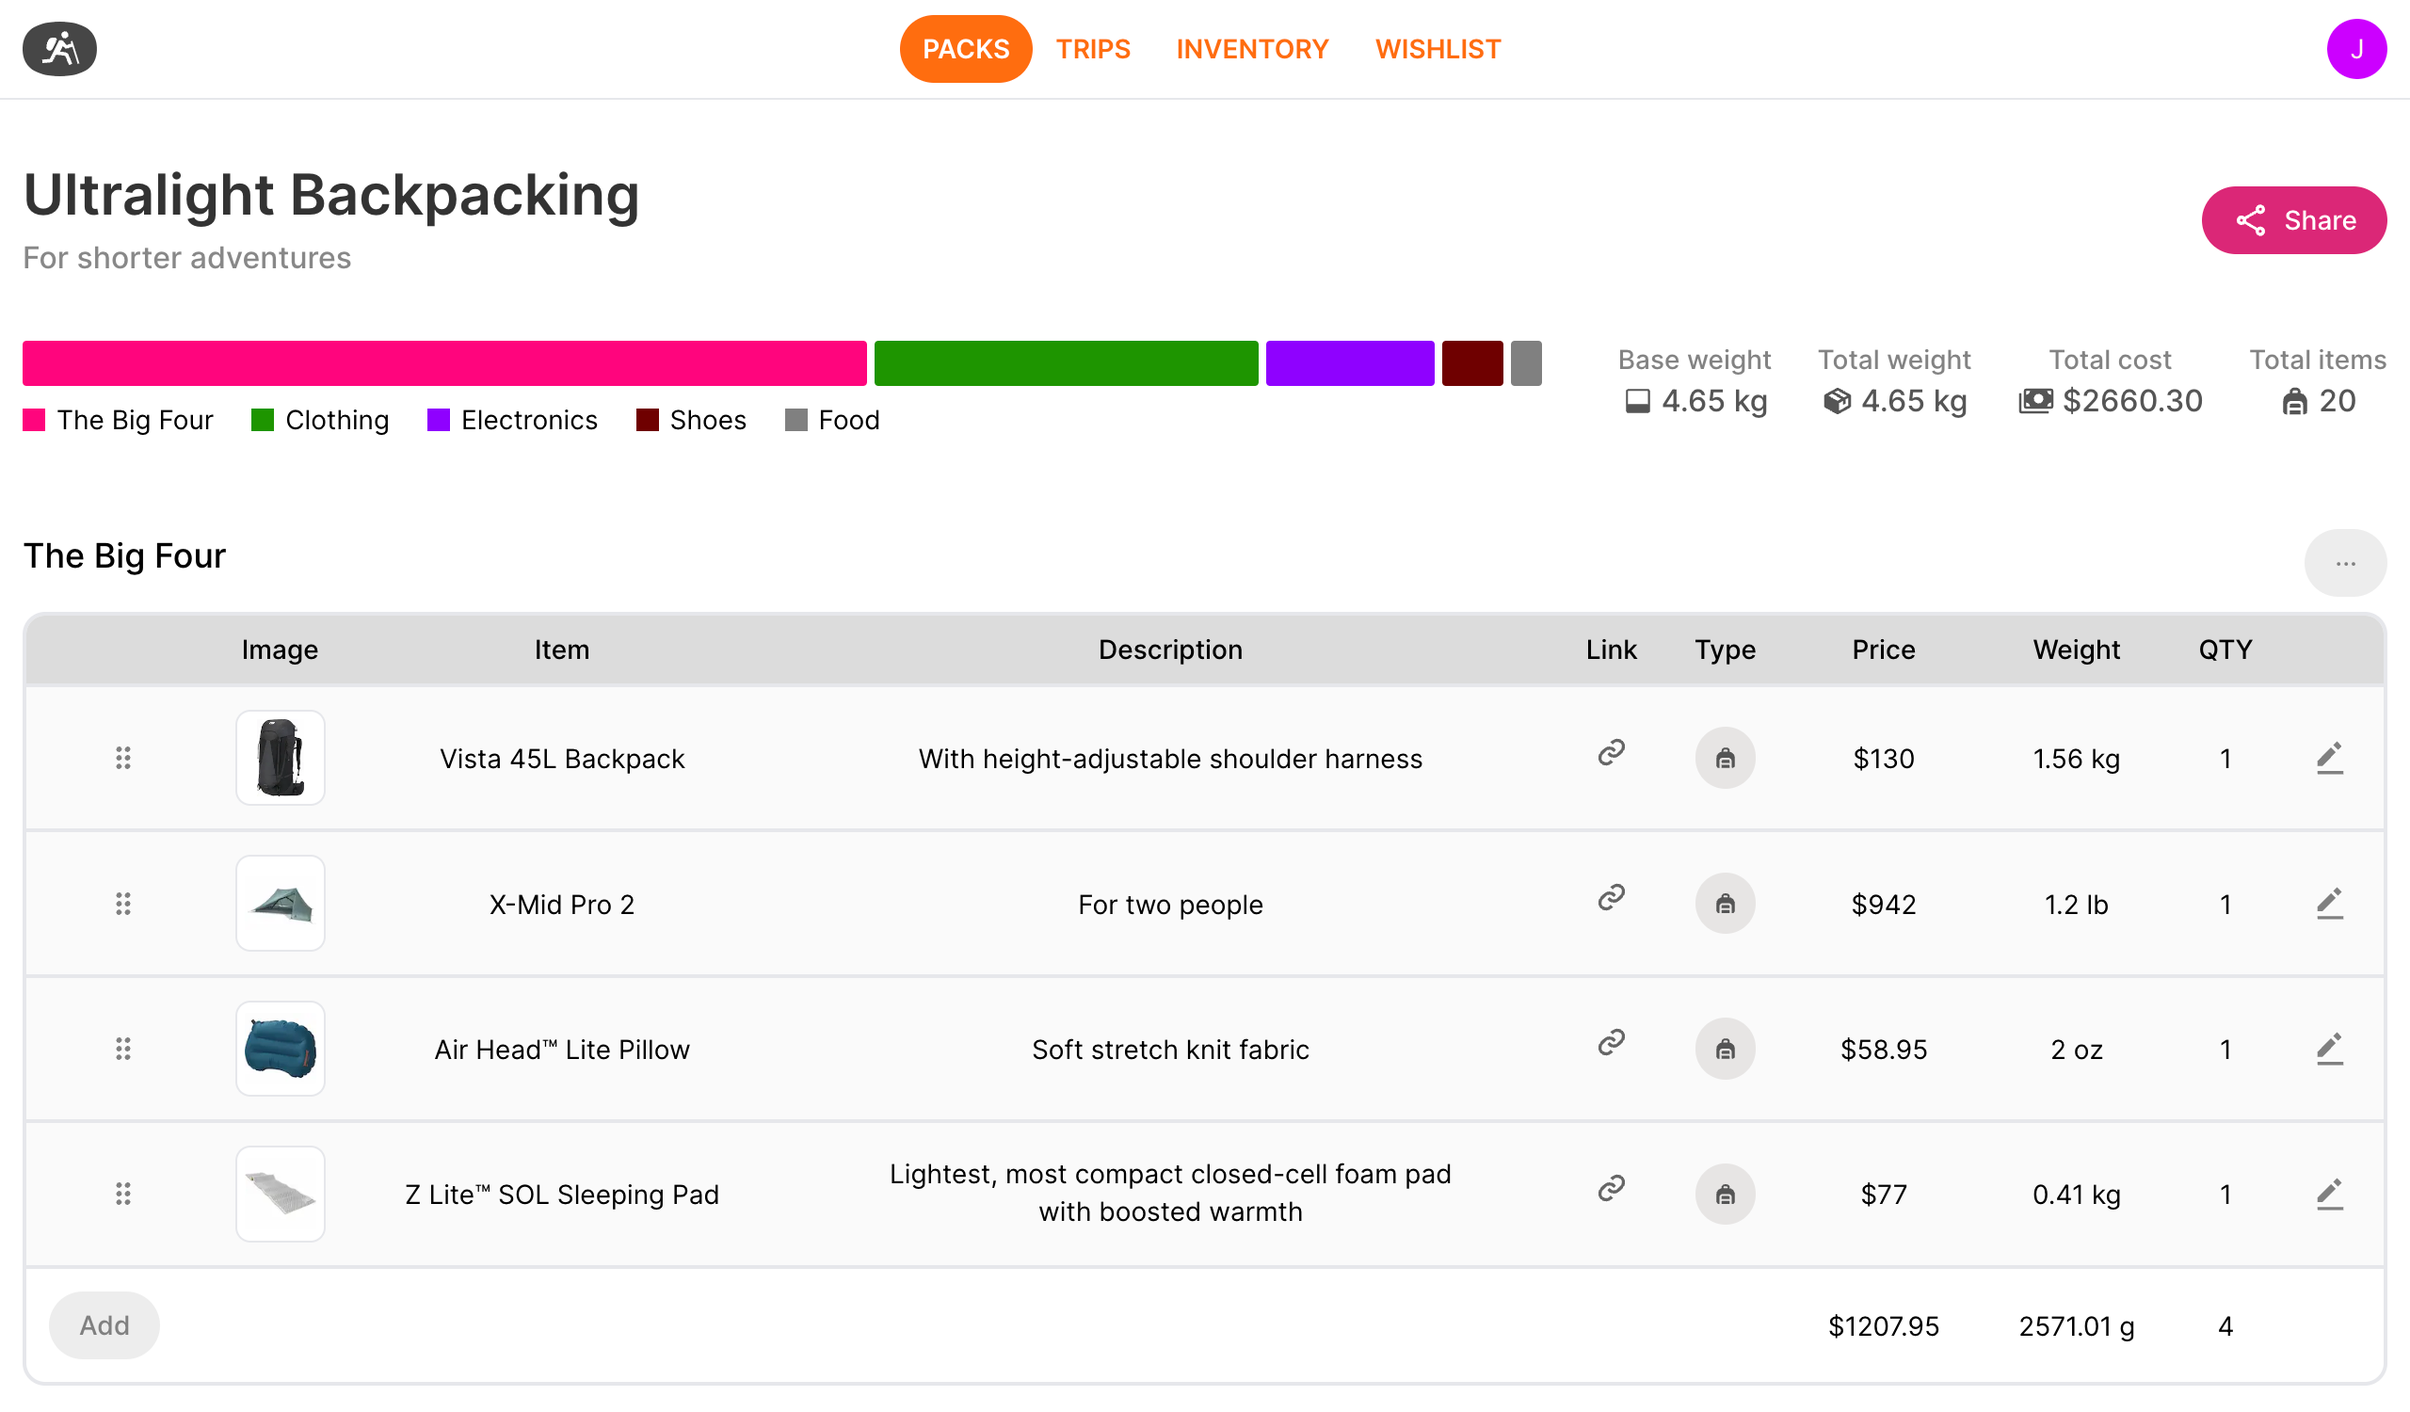
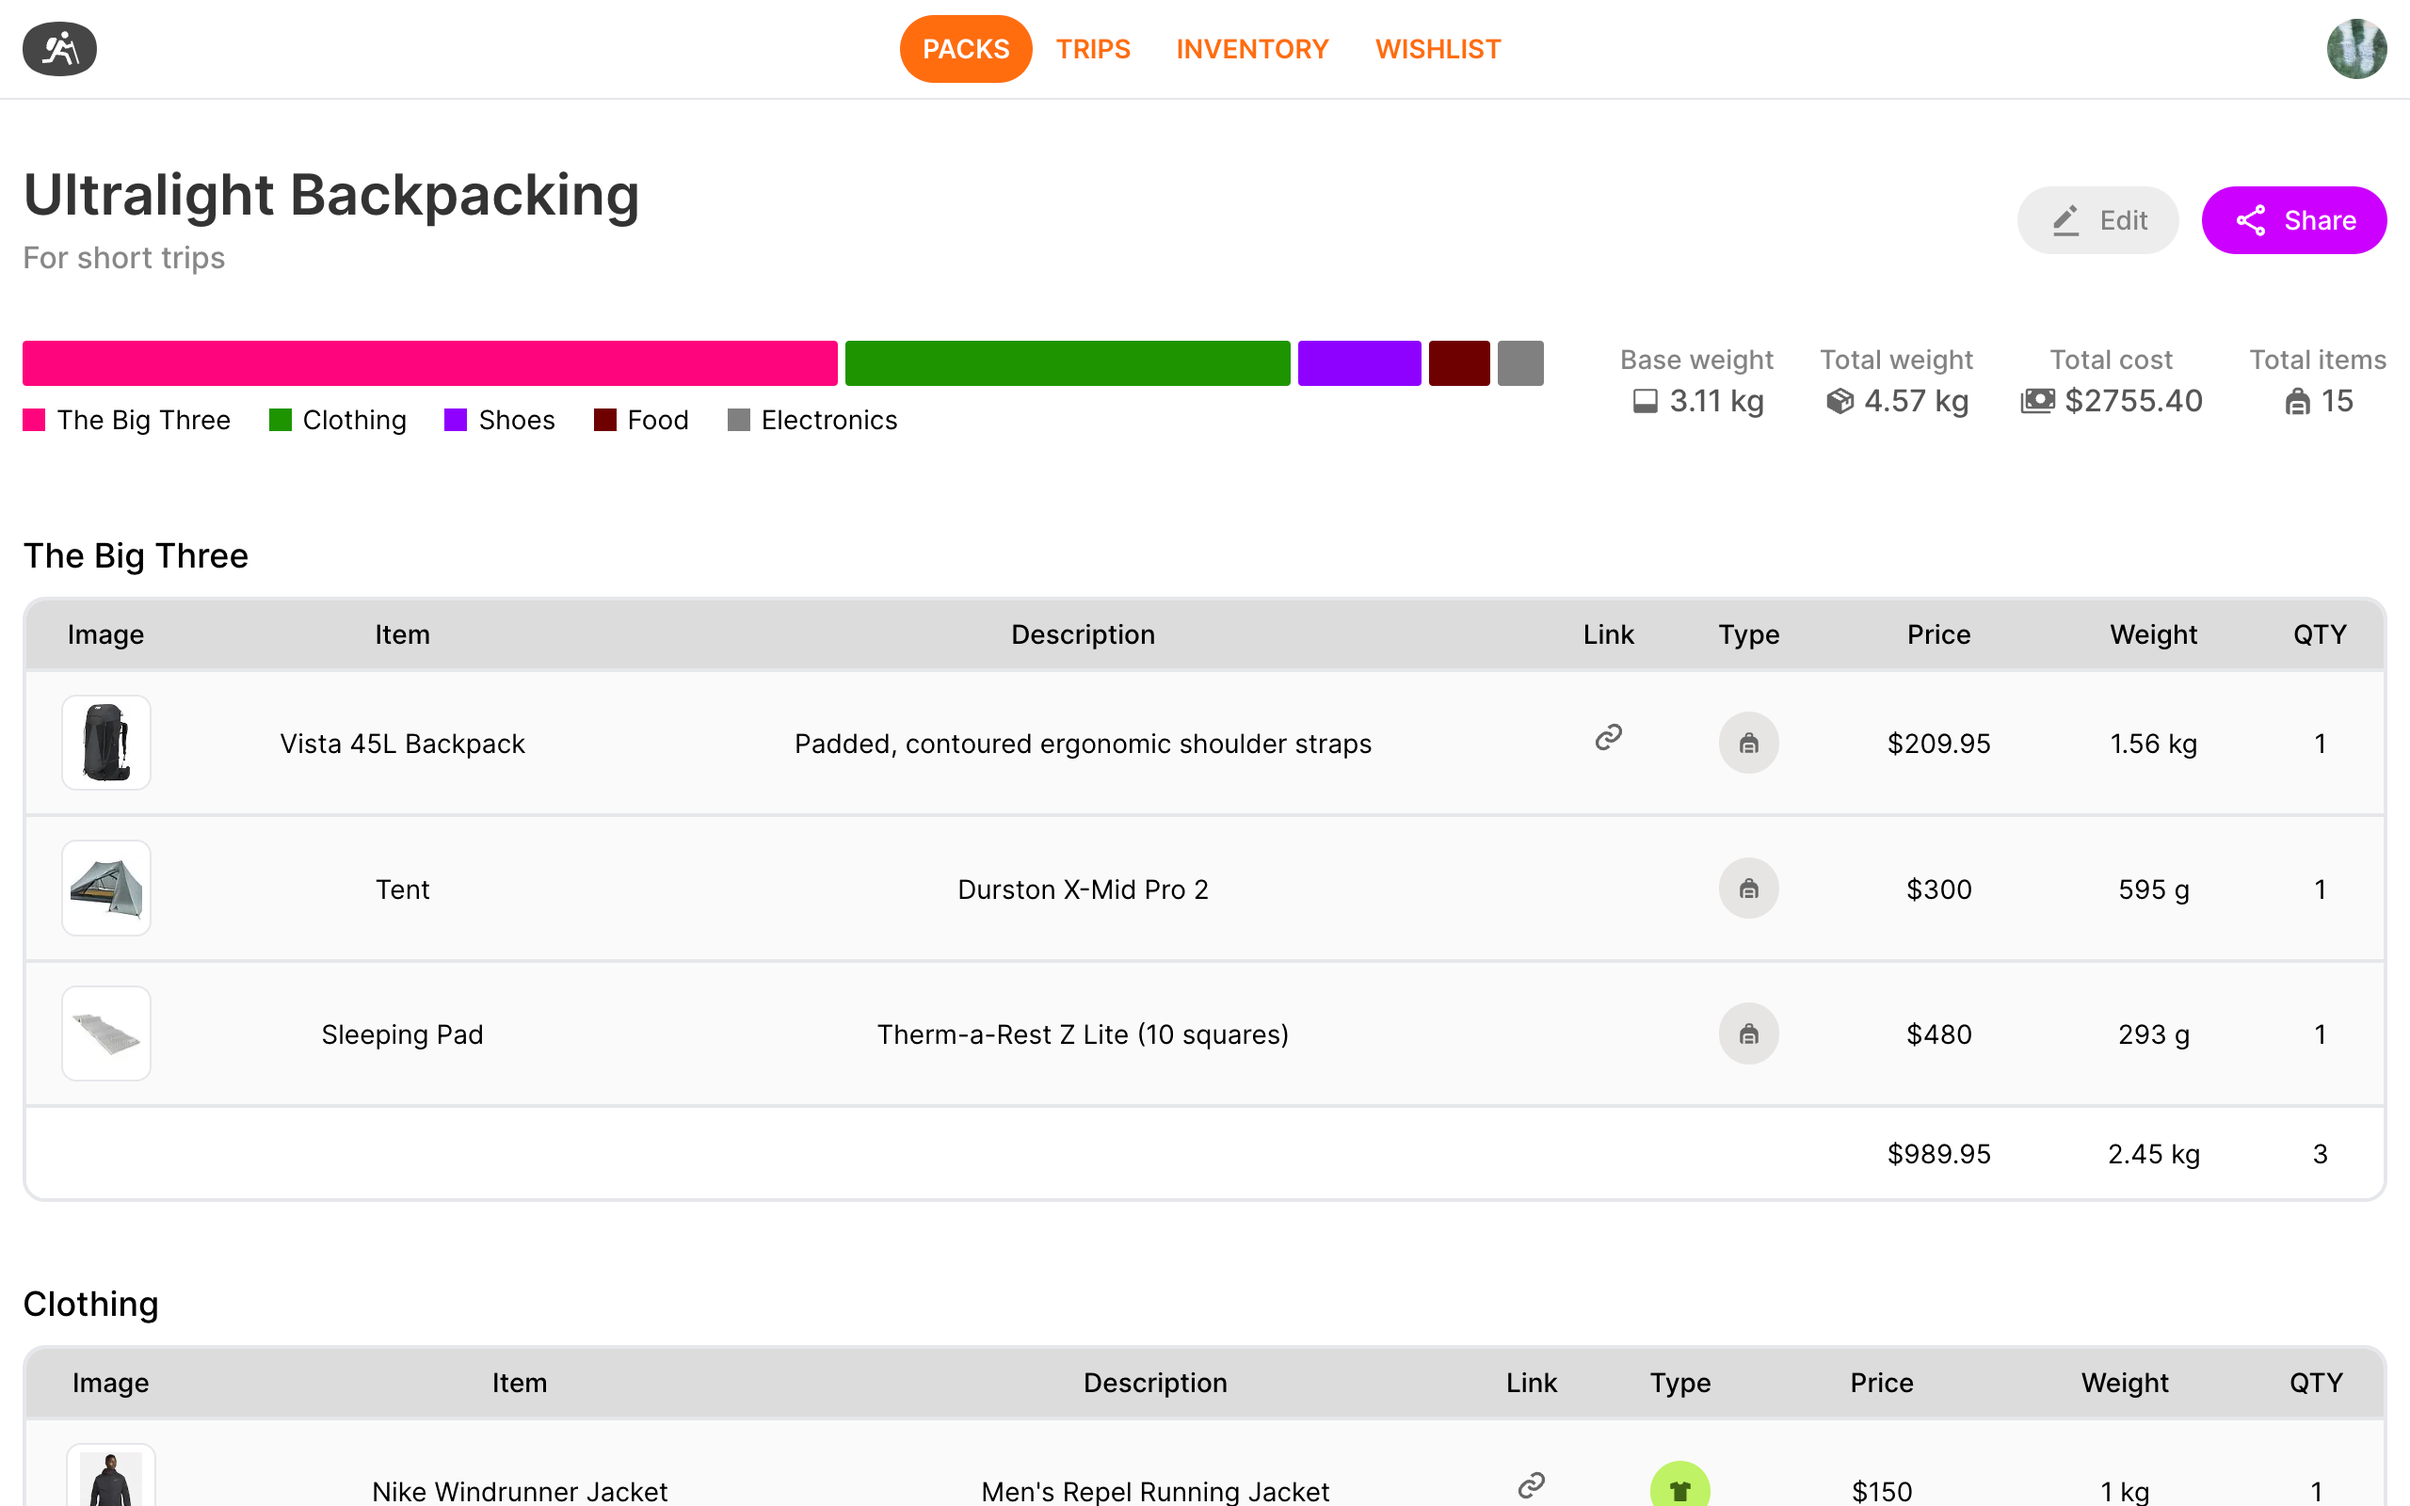
Fix issue where correct currency isn't shown on table

diff --git a/src/app/page.tsx b/src/app/page.tsx
@@ -53,10 +53,15 @@ export default function Home() {
       <section className="flex flex-col flex-wrap gap-5 p-3 mt-10 max-w-7xl animate-delay-1000 animate-fade-up">
         <div className="bg-[#F7F7F7] p-6 rounded-xl flex flex-wrap xl:flex-nowrap gap-3 dark:bg-neutral-800">
           <div className="w-full sm:max-w-sm">
-            <h3 className="font-semibold text-2xl text-header-1 dark:text-neutral-200">Packs</h3>
+            <h3 className="font-semibold text-2xl text-header-1 dark:text-neutral-200">
+              Packs
+            </h3>
             <p className="font-medium  text-md text-header-2 mt-3 dark:text-neutral-400">
               Create your own pack and see how much you should be packing for
-              your next trip.
+              your next trip. 
+            </p>
+            <p className="font-medium  text-md text-header-2 mt-3 dark:text-neutral-400">
+              Share your packs with your others to help them prepare for their next trip.
             </p>
           </div>
           <Image
@@ -68,7 +73,9 @@ export default function Home() {
         </div>
         <div className="flex flex-wrap gap-5">
           <div className="bg-[#F7F7F7] p-6 rounded-xl flex-1 min-w-[49%] dark:bg-neutral-800">
-            <h3 className="font-semibold text-2xl text-header-1 dark:text-neutral-200">Inventory</h3>
+            <h3 className="font-semibold text-2xl text-header-1 dark:text-neutral-200">
+              Inventory
+            </h3>
             <p className="font-medium  text-md text-header-2 mt-3 dark:text-neutral-400">
               Collect all your items in one place so you’ll know what you can
               bring with you.
@@ -81,7 +88,9 @@ export default function Home() {
             />
           </div>
           <div className="bg-[#F7F7F7] p-6 rounded-xl flex-1 min-w-[49%] dark:bg-neutral-800">
-            <h3 className="font-semibold text-2xl text-header-1 dark:text-neutral-200">Trips</h3>
+            <h3 className="font-semibold text-2xl text-header-1 dark:text-neutral-200">
+              Trips
+            </h3>
             <p className="font-medium  text-md text-header-2 mt-3 dark:text-neutral-400">
               Look back on your journeys to find out how much you should be
               packing for your next trip.
@@ -97,7 +106,9 @@ export default function Home() {
         <div className="flex flex-wrap gap-5">
           <div className="bg-[#F7F7F7] p-6 rounded-xl flex-1 min-w-[49%] dark:bg-neutral-800">
             <div>
-              <h3 className="font-semibold text-2xl text-header-1 dark:text-neutral-200">Wishlist</h3>
+              <h3 className="font-semibold text-2xl text-header-1 dark:text-neutral-200">
+                Wishlist
+              </h3>
               <p className="font-medium  text-md text-header-2 mt-3 dark:text-neutral-400">
                 Save your favourite items for later, when you want to go
                 shopping.
@@ -111,7 +122,9 @@ export default function Home() {
             />
           </div>
           <div className="bg-[#F7F7F7] p-6 rounded-xl flex-1 min-w-[49%] dark:bg-neutral-800">
-            <h3 className="font-semibold text-2xl text-header-1 dark:text-neutral-200">Privacy</h3>
+            <h3 className="font-semibold text-2xl text-header-1 dark:text-neutral-200">
+              Privacy
+            </h3>
             <p className="font-medium  text-md text-header-2 mt-3 dark:text-neutral-400">
               Holos is developed by hikers like you for free and will remain
               free. Your data is yours and can be exported at any time.

diff --git a/src/app/share/[id]/page.tsx b/src/app/share/[id]/page.tsx
@@ -14,6 +14,7 @@ import useGetSharedPackData from "@/hooks/useGetSharedPackData";
 import useGetPublicUser from "@/hooks/useGetPublicUser";
 import Avatar from "@/components/dataDisplay/avatar/Avatar";
 import PackSkeleton from "@/components/dataDisplay/packSkeleton/PackSkeleton";
+import { getCurrencySymbol } from "@/utils/currencyUtils";
 
 interface Props {
   params: { id: string };
@@ -31,7 +32,10 @@ export default function SharedPack(props: Props) {
   const [packStats, setPackStats] = useState<PackStats[]>([]);
   const [chartData, setChartData] = useState<ChartData[] | []>([]);
 
-  const { user, avatar, preferredCurrency } = useGetPublicUser({ shareID: params.id });
+  const { user, avatar, preferredCurrency } = useGetPublicUser({
+    shareID: params.id,
+  });
+  const currencySymbol = getCurrencySymbol(preferredCurrency);
 
   const onDeleteGroup = async (id: number) => {
     if (!packData) return;
@@ -98,7 +102,7 @@ export default function SharedPack(props: Props) {
   // get total base weight, total weight, total price, total quantity
   const total: PackSummary = {
     weight_unit: pack?.weight_unit ?? "kg",
-    currency: preferredCurrency,
+    currency: currencySymbol,
     base_weight: packStats.reduce(
       (acc, group: PackStats) =>
         acc +
@@ -169,7 +173,7 @@ export default function SharedPack(props: Props) {
               </h2>
             </div>
             {user && (
-              <div className="flex flex-wrap gap-3 items-center">
+              <div className="flex flex-wrap gap-2 items-center">
                 <div className="flex flex-col flex-wrap">
                   <span className="text-xs font-medium text-gray-500 dark:text-neutral-400">
                     Created by
@@ -198,7 +202,7 @@ export default function SharedPack(props: Props) {
                   onUpdateGroup={setPackData}
                   onDeleteGroup={() => onDeleteGroup(group.id)}
                   setPackStats={setPackStats}
-                  currency={preferredCurrency}
+                  currency={currencySymbol}
                   packWeightUnit={pack.weight_unit}
                 />
               ))}

diff --git a/src/components/dataDisplay/table/Table.tsx b/src/components/dataDisplay/table/Table.tsx
@@ -33,7 +33,6 @@ import {
   verticalListSortingStrategy,
 } from "@dnd-kit/sortable";
 import { calculateChangedItems } from "@/utils/dndUtils";
-import Button from "@/components/actions/button/Button";
 import { CSS } from "@dnd-kit/utilities";
 
 interface Props {
@@ -61,7 +60,7 @@ function Table(props: Props) {
   const [showAddItemModal, setShowAddItemModal] = useState(false);
   const [showEditItemModal, setShowEditItemModal] = useState(false);
   const [selectedItem, setSelectedItem] = useState<PackItem | null>(null);
-  const [isExpanded, setIsExpanded] = useState(true);
+  const [isExpanded, setIsExpanded] = useState(true);  
   const sensors = useSensors(
     useSensor(PointerSensor),
     useSensor(KeyboardSensor, {
@@ -296,8 +295,9 @@ function Table(props: Props) {
                         .map((item) => (
                           <TableRow
                             key={item.id}
-                            item={item}
+                            item={item}                            
                             viewMode={viewMode}
+                            currency={currency}
                             onSelect={() => setSelectedItem(item)}
                             onEdit={setShowEditItemModal}
                           />

diff --git a/src/hooks/useGetPreferredCurrency.tsx b/src/hooks/useGetPreferredCurrency.tsx
@@ -1,10 +1,13 @@
 import { Database } from "@/lib/database.types";
 import { currencyAtom } from "@/store/store";
+import { getCurrencySymbol } from "@/utils/currencyUtils";
 import { createClientComponentClient } from "@supabase/auth-helpers-nextjs";
 import { useAtom } from "jotai";
 import useSWR from "swr";
 
-export default function useGetPreferredCurrency() {
+export default function useGetPreferredCurrency(props: { showAbbreviation?: boolean }) {
+  const { showAbbreviation = false } = props;
+
   const supabase = createClientComponentClient<Database>();
   const [currency, setCurrency] = useAtom(currencyAtom);
 
@@ -17,7 +20,11 @@ export default function useGetPreferredCurrency() {
         .select("preferred_currency")
         .eq("id", user.session?.user.id);
       if (currency) {
-        setCurrency(currency[0].preferred_currency);
+        setCurrency(
+          showAbbreviation
+            ? currency[0].preferred_currency
+            : getCurrencySymbol(currency[0].preferred_currency)
+        );
       } else {
         setCurrency("USD");
       }

diff --git a/src/components/dataDisplay/tableRow/TableRow.tsx b/src/components/dataDisplay/tableRow/TableRow.tsx
@@ -10,12 +10,13 @@ import { CSS } from "@dnd-kit/utilities";
 interface Props {
   item: PackItem;
   viewMode?: boolean;
+  currency: string;
   onEdit: (showEditItemModal: SetStateAction<boolean>) => void;
   onSelect: (item: SetStateAction<[] | PackItem>) => void;
 }
 
 function TableRow(props: Props) {
-  const { item, viewMode, onEdit, onSelect } = props;
+  const { item, viewMode, currency, onEdit, onSelect } = props;
   const { id, quantity, type } = item;
   const {
     title,
@@ -105,7 +106,10 @@ function TableRow(props: Props) {
         </td>
         <td className="p-3">{type && <Tag title={type} />}</td>
         <td className="text-center p-3">
-          <span className="text-sm dark:text-neutral-300">${price}</span>
+          <span className="text-sm dark:text-neutral-300">
+            {currency}
+            {price}
+          </span>
         </td>
         <td className="text-center p-3">
           <span className="text-sm dark:text-neutral-300">

diff --git a/src/components/contentDisplay/packSummary/PackSummary.tsx b/src/components/contentDisplay/packSummary/PackSummary.tsx
@@ -3,7 +3,6 @@ import TotalWeightIcon from "@/assets/icons/totalWeight.svg";
 import CostIcon from "@/assets/icons/costIcon.svg";
 import ItemsIcon from "@/assets/icons/itemsIcon.svg";
 import Image from "next/image";
-import { getCurrencySymbol } from "@/utils/currencyUtils";
 
 interface Props {
   data: PackSummary;
@@ -63,7 +62,7 @@ function PackSummary(props: Props) {
           <span className="flex flex-wrap gap-1">
             <Image src={CostIcon} alt="Cost icon" className="w-[20px]" />
             <h5 className="text-gray font-medium dark:text-neutral-200">
-              {getCurrencySymbol(currency)} 
+              {currency} 
               {total_cost.toFixed(2)}
             </h5>
           </span>

diff --git a/src/app/dashboard/settings/page.tsx b/src/app/dashboard/settings/page.tsx
@@ -31,7 +31,7 @@ export default function Settings() {
   const [loading, setLoading] = useState<LoadingState>({});
   const [newEmail, setNewEmail] = useState("");
   const [resetSuccess, setResetSuccess] = useState(false);
-  const { currency } = useGetPreferredCurrency();
+  const { currency } = useGetPreferredCurrency({ showAbbreviation: true });
   const [showDeleteConfirmation, setShowDeleteConfirmation] = useState(false);
   const [preferredCurrency, setPreferredCurrency] = useState("USD");
   const { user } = useGetUser();

diff --git a/src/app/dashboard/packs/[id]/page.tsx b/src/app/dashboard/packs/[id]/page.tsx
@@ -44,7 +44,7 @@ export default function Pack(props: Props) {
   const { pack } = useGetPack({
     packID: params.id,
   });
-  const { currency } = useGetPreferredCurrency();
+  const { currency } = useGetPreferredCurrency({});
   const [viewMode, setViewMode] = useState(false);
   const [showAddGroupModal, setShowAddGroupModal] = useState(false);
   const [showShareModal, setShowShareModal] = useState(false);

diff --git a/src/components/contentDisplay/inventoryGrid/InventoryGrid.tsx b/src/components/contentDisplay/inventoryGrid/InventoryGrid.tsx
@@ -26,7 +26,7 @@ export default function InventoryGrid() {
   const sortFilter = useAtomValue(sortFilterAtom);
   const [currentIventoryItem, setCurrentInventoryItem] =
     useState<InventoryItem | null>(null);
-  const { currency } = useGetPreferredCurrency();
+  const { currency } = useGetPreferredCurrency({});  
   const { inventory, setInventory, error, isLoading, isValidating } =
     useGetInventory();
 

diff --git a/src/components/contentDisplay/inventoryCard/InventoryCard.tsx b/src/components/contentDisplay/inventoryCard/InventoryCard.tsx
@@ -53,7 +53,7 @@ function InventoryCard(props: Props) {
           {price !== 0 && (
             <span className="flex items-center gap-1 text-sm font-medium text-stone-500 border-stone-300 dark:text-stone-400">
               <Image src={CostIcon} alt="Cost icon" width={20} height={20} />
-              {currency}
+              {currency} 
               {price}
             </span>
           )}
